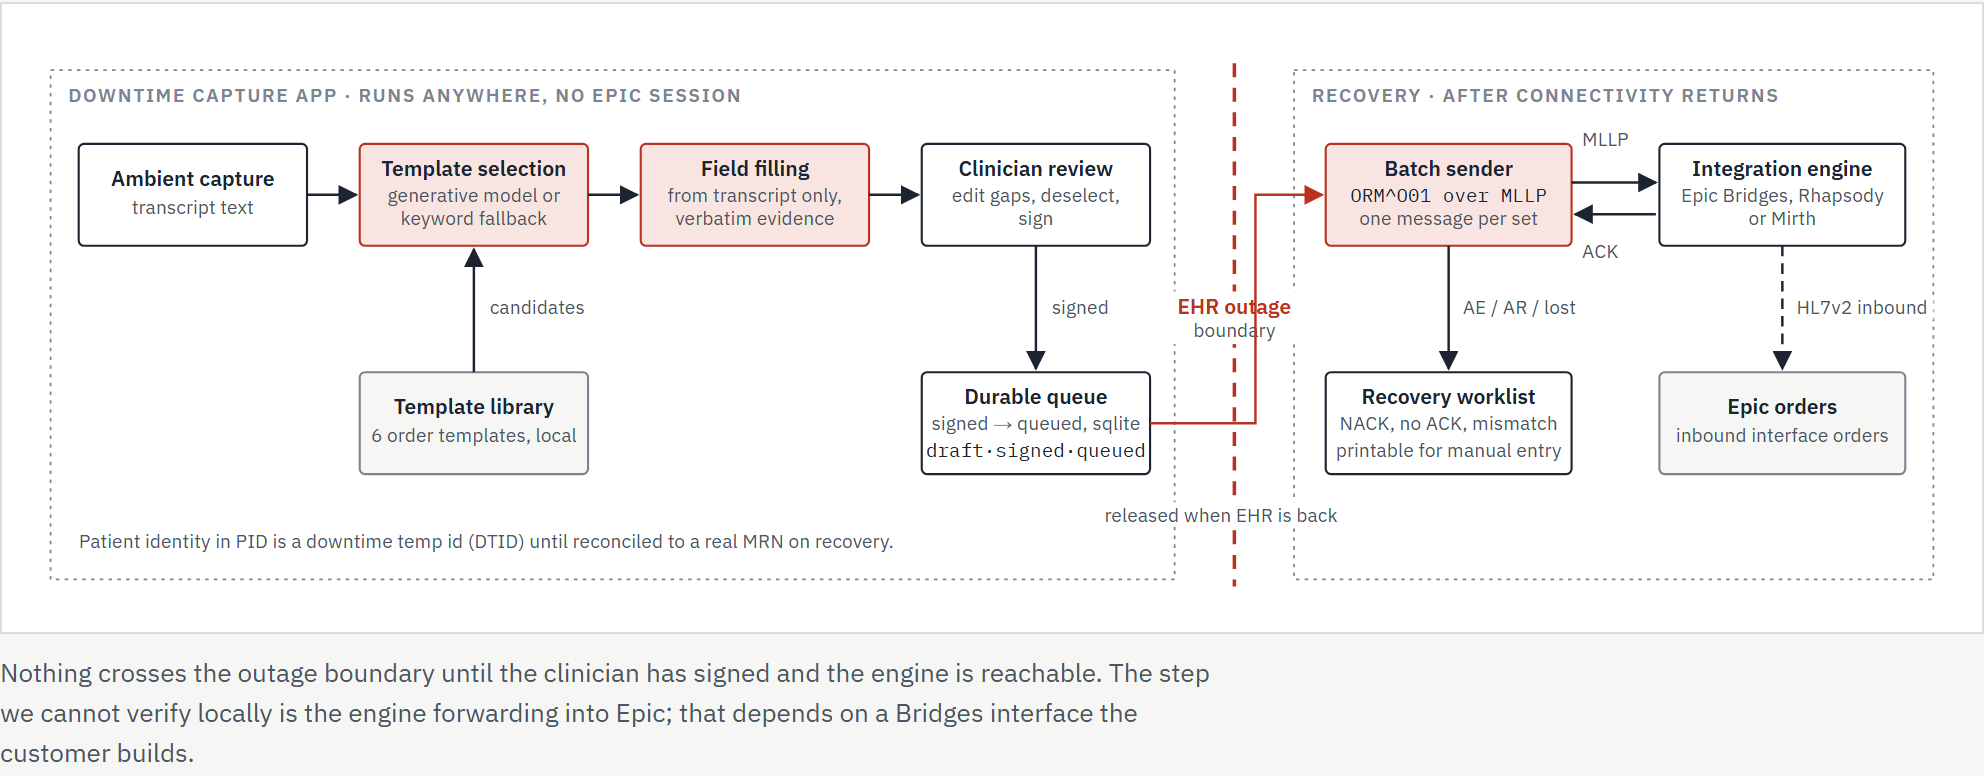
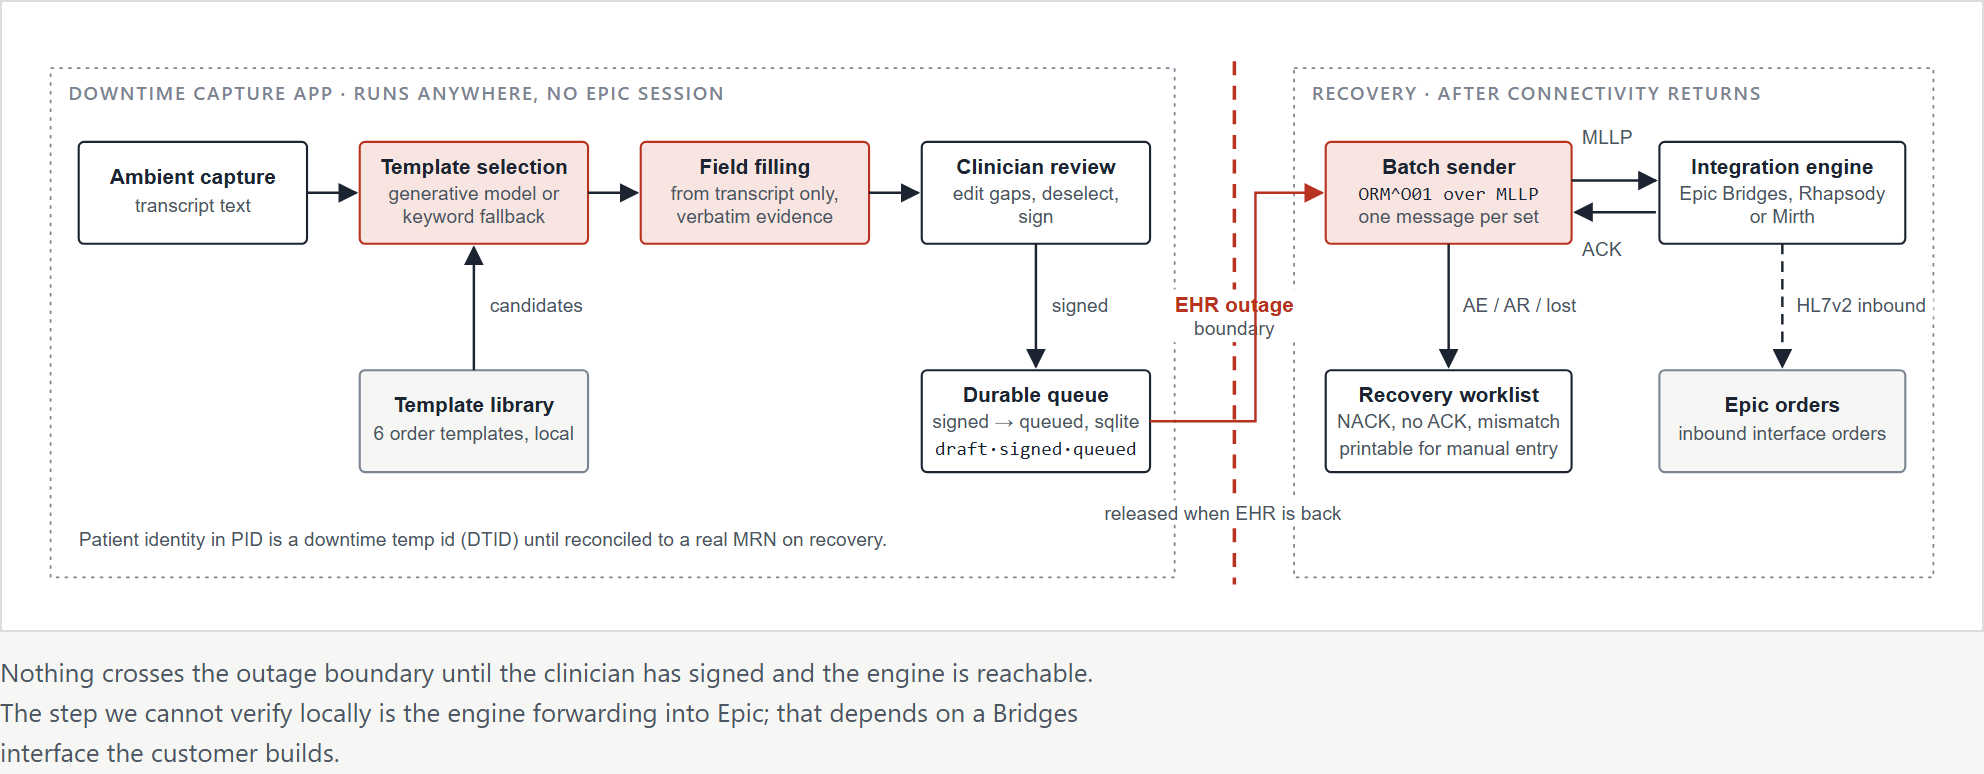
docs: relayout scenario B diagram so no edge crosses a box; fallback-safe labels
Epic column is a single vertical stack, hook lines leave at distinct
heights, the SMART launch runs along the top edge, the direct-write
path is routed around the outside, and sublabels fit with system
fonts. PNG exports re-rendered.

Claude-Session: https://claude.ai/code/session_01NjtxACCHabnkNVJv4137nH

diff --git a/docs/diagrams/epicvibe-scenarios.html b/docs/diagrams/epicvibe-scenarios.html
@@ -320,150 +320,157 @@
 
     <figure>
       <div class="diagram-wrap">
-      <svg viewBox="0 0 1100 560" role="img" aria-label="Online flow: Epic chart open fires patient-view with prefetch to the EpicVibe hook endpoints, which enqueue an async proposal job that reads extra FHIR data, grounds the proposal in the catalog and caches it. Order entry fires order-select and receives a card with create suggestions and a SMART link; accepting a suggestion makes Epic file an unsigned order. The SMART Order Assistant launches from the link, reads the full chart, shows the pre-populated template, and hands edits back to the cache so the next order-select card carries them. A direct FHIR create from the SMART app is marked as not possible.">
+      <svg viewBox="0 0 1180 590" role="img" aria-label="Online flow: Epic chart open fires patient-view with prefetch to the EpicVibe hook endpoints, which enqueue an async proposal job that reads extra FHIR data, asks the model with no identifiers, grounds the proposal in the catalog and caches it. Order entry fires order-select and receives a card with create suggestions and a SMART link; accepting a suggestion makes Epic file an unsigned order which the clinician signs. The SMART Order Assistant launches from the link, reads the full chart, shows the pre-populated template, and hands edits back to the cache so the next order-select card carries them. A direct FHIR create from the SMART app is marked as not possible.">
         <defs>
           <marker id="bh" viewBox="0 0 10 10" refX="9" refY="5" markerWidth="8" markerHeight="8" orient="auto-start-reverse"><path d="M0,0 L10,5 L0,10 z" fill="currentColor"/></marker>
           <marker id="bh-tone" viewBox="0 0 10 10" refX="9" refY="5" markerWidth="8" markerHeight="8" orient="auto-start-reverse"><path d="M0,0 L10,5 L0,10 z" fill="var(--tone)"/></marker>
         </defs>
 
         <!-- regions -->
-        <rect class="region" x="14" y="24" width="330" height="516"/>
+        <rect class="region" x="14" y="24" width="376" height="540"/>
         <text class="region-title" x="24" y="42">Epic · clinician session (mock EHR in the demo)</text>
-        <rect class="region" x="392" y="24" width="336" height="380"/>
-        <text class="region-title" x="402" y="42">EpicVibe CDS service</text>
-        <rect class="region" x="776" y="24" width="310" height="380"/>
-        <text class="region-title" x="786" y="42">SMART Order Assistant</text>
+        <rect class="region" x="420" y="24" width="356" height="540"/>
+        <text class="region-title" x="430" y="42">EpicVibe CDS service</text>
+        <rect class="region" x="816" y="24" width="354" height="540"/>
+        <text class="region-title" x="826" y="42">SMART Order Assistant</text>
 
-        <!-- Epic boxes -->
-        <rect class="box" x="30" y="70" width="140" height="52" rx="3"/>
-        <text class="t b" x="100" y="92" text-anchor="middle">Chart open</text>
-        <text class="t m" x="100" y="108" text-anchor="middle">patient-view</text>
+        <!-- Epic column: one vertical stack -->
+        <rect class="box" x="20" y="70" width="150" height="60" rx="3"/>
+        <text class="t b" x="95" y="96" text-anchor="middle">Chart open</text>
+        <text class="t m" x="95" y="113" text-anchor="middle">patient-view</text>
 
-        <rect class="box" x="30" y="190" width="140" height="52" rx="3"/>
-        <text class="t b" x="100" y="212" text-anchor="middle">Order entry</text>
-        <text class="t m" x="100" y="228" text-anchor="middle">order-select</text>
+        <rect class="box" x="20" y="170" width="150" height="60" rx="3"/>
+        <text class="t b" x="95" y="196" text-anchor="middle">Order entry</text>
+        <text class="t m" x="95" y="213" text-anchor="middle">order-select</text>
 
-        <rect class="box tone" x="196" y="190" width="132" height="52" rx="3"/>
-        <text class="t b" x="262" y="208" text-anchor="middle">Unsigned order</text>
-        <text class="t s" x="262" y="222" text-anchor="middle">filed by Epic from</text>
-        <text class="t s" x="262" y="235" text-anchor="middle">its own defaults</text>
+        <rect class="box tone" x="20" y="270" width="150" height="60" rx="3"/>
+        <text class="t b" x="95" y="292" text-anchor="middle">Unsigned order</text>
+        <text class="t s" x="95" y="307" text-anchor="middle">filed by Epic from</text>
+        <text class="t s" x="95" y="320" text-anchor="middle">its own defaults</text>
 
-        <rect class="box" x="30" y="310" width="140" height="52" rx="3"/>
-        <text class="t b" x="100" y="332" text-anchor="middle">Signing</text>
-        <text class="t m" x="100" y="348" text-anchor="middle">order-sign</text>
+        <rect class="box" x="20" y="370" width="150" height="60" rx="3"/>
+        <text class="t b" x="95" y="396" text-anchor="middle">Signing</text>
+        <text class="t m" x="95" y="413" text-anchor="middle">order-sign</text>
 
-        <rect class="box muted" x="30" y="430" width="140" height="52" rx="3"/>
-        <text class="t b" x="100" y="452" text-anchor="middle">FHIR R4 reads</text>
-        <text class="t s" x="100" y="468" text-anchor="middle">Patient · Obs · Meds · Allergies</text>
+        <rect class="box muted" x="20" y="470" width="150" height="60" rx="3"/>
+        <text class="t b" x="95" y="492" text-anchor="middle">FHIR R4 reads</text>
+        <text class="t s" x="95" y="507" text-anchor="middle">Patient, Obs, Meds,</text>
+        <text class="t s" x="95" y="520" text-anchor="middle">Allergies, Encounter</text>
 
-        <!-- service boxes -->
-        <rect class="box tone" x="408" y="70" width="140" height="52" rx="3"/>
-        <text class="t b" x="478" y="92" text-anchor="middle">Hook endpoints</text>
-        <text class="t s" x="478" y="108" text-anchor="middle">sync, fail-soft, no model</text>
+        <!-- Service column -->
+        <rect class="box tone" x="430" y="70" width="150" height="190" rx="3"/>
+        <text class="t b" x="505" y="146" text-anchor="middle">Hook endpoints</text>
+        <text class="t s" x="505" y="161" text-anchor="middle">sync, fail-soft,</text>
+        <text class="t s" x="505" y="174" text-anchor="middle">model never here</text>
+        <text class="t m" x="574" y="104" text-anchor="end">patient-view</text>
+        <text class="t m" x="574" y="198" text-anchor="end">order-select</text>
+        <text class="t m" x="574" y="240" text-anchor="end">order-sign</text>
 
-        <rect class="box" x="572" y="70" width="140" height="52" rx="3"/>
-        <text class="t b" x="642" y="92" text-anchor="middle">Proposal job</text>
-        <text class="t s" x="642" y="108" text-anchor="middle">async, off the hook path</text>
+        <rect class="box" x="630" y="70" width="150" height="60" rx="3"/>
+        <text class="t b" x="705" y="92" text-anchor="middle">Proposal job</text>
+        <text class="t s" x="705" y="107" text-anchor="middle">async, off the</text>
+        <text class="t s" x="705" y="120" text-anchor="middle">hook path</text>
 
-        <rect class="box muted" x="572" y="150" width="140" height="52" rx="3"/>
-        <text class="t b" x="642" y="172" text-anchor="middle">Model</text>
-        <text class="t s" x="642" y="188" text-anchor="middle">age, sex, codes, values only</text>
+        <rect class="box muted" x="630" y="180" width="150" height="60" rx="3"/>
+        <text class="t b" x="705" y="202" text-anchor="middle">Model</text>
+        <text class="t s" x="705" y="217" text-anchor="middle">age, sex, codes, values</text>
+        <text class="t s" x="705" y="230" text-anchor="middle">no identifiers</text>
 
-        <rect class="box" x="572" y="240" width="140" height="52" rx="3"/>
-        <text class="t b" x="642" y="262" text-anchor="middle">Catalog grounding</text>
-        <text class="t s" x="642" y="278" text-anchor="middle">drops anything not in catalog</text>
+        <rect class="box" x="630" y="290" width="150" height="60" rx="3"/>
+        <text class="t b" x="705" y="312" text-anchor="middle">Catalog grounding</text>
+        <text class="t s" x="705" y="327" text-anchor="middle">drops anything</text>
+        <text class="t s" x="705" y="340" text-anchor="middle">not in the catalog</text>
 
-        <rect class="box" x="408" y="240" width="140" height="52" rx="3"/>
-        <text class="t b" x="478" y="262" text-anchor="middle">Proposal cache</text>
-        <text class="t s" x="478" y="278" text-anchor="middle">per encounter, TTL</text>
+        <rect class="box" x="430" y="300" width="150" height="60" rx="3"/>
+        <text class="t b" x="505" y="326" text-anchor="middle">Proposal cache</text>
+        <text class="t s" x="505" y="342" text-anchor="middle">per encounter, TTL</text>
 
-        <!-- SMART boxes -->
-        <rect class="box" x="792" y="70" width="140" height="52" rx="3"/>
-        <text class="t b" x="862" y="92" text-anchor="middle">EHR launch</text>
-        <text class="t s" x="862" y="108" text-anchor="middle">OAuth, PKCE, patient context</text>
+        <!-- SMART column -->
+        <rect class="box" x="820" y="70" width="150" height="60" rx="3"/>
+        <text class="t b" x="895" y="92" text-anchor="middle">EHR launch</text>
+        <text class="t s" x="895" y="107" text-anchor="middle">OAuth with PKCE,</text>
+        <text class="t s" x="895" y="120" text-anchor="middle">patient context</text>
 
-        <rect class="box tone" x="792" y="190" width="140" height="52" rx="3"/>
-        <text class="t b" x="862" y="208" text-anchor="middle">Pre-populated</text>
-        <text class="t b" x="862" y="222" text-anchor="middle">order template</text>
-        <text class="t s" x="862" y="236" text-anchor="middle">evidence per item, editable</text>
+        <rect class="box tone" x="820" y="200" width="150" height="60" rx="3"/>
+        <text class="t b" x="895" y="218" text-anchor="middle">Pre-populated</text>
+        <text class="t b" x="895" y="232" text-anchor="middle">order template</text>
+        <text class="t s" x="895" y="248" text-anchor="middle">evidence per item, editable</text>
 
-        <rect class="box" x="792" y="310" width="140" height="52" rx="3"/>
-        <text class="t b" x="862" y="332" text-anchor="middle">Send to order entry</text>
-        <text class="t s" x="862" y="348" text-anchor="middle">hand-back, not write-back</text>
+        <rect class="box" x="820" y="330" width="150" height="60" rx="3"/>
+        <text class="t b" x="895" y="352" text-anchor="middle">Send to order entry</text>
+        <text class="t s" x="895" y="367" text-anchor="middle">hand-back,</text>
+        <text class="t s" x="895" y="380" text-anchor="middle">not write-back</text>
 
-        <!-- SMART launch along the top edge -->
-        <path class="edge" d="M100,70 L100,60 L862,60 L862,68" marker-end="url(#bh)"/>
-        <rect class="lbl-bg" x="600" y="46" width="150" height="14"/>
-        <text class="lbl" x="602" y="57">SMART link → EHR launch with context</text>
+        <!-- Epic -> hooks -->
+        <line class="edge" x1="170" y1="100" x2="428" y2="100" marker-end="url(#bh)"/>
+        <rect class="lbl-bg" x="200" y="82" width="170" height="14"/>
+        <text class="lbl" x="202" y="93">patient-view + prefetch bundles</text>
 
-        <!-- chart open -> hooks -->
-        <line class="edge" x1="170" y1="96" x2="406" y2="96" marker-end="url(#bh)"/>
-        <rect class="lbl-bg" x="200" y="100" width="160" height="14"/>
-        <text class="lbl" x="202" y="111">patient-view + prefetch bundles</text>
+        <line class="edge" x1="170" y1="194" x2="428" y2="194" marker-end="url(#bh)"/>
+        <rect class="lbl-bg" x="200" y="199" width="140" height="13"/>
+        <text class="lbl" x="202" y="209">order-select + draftOrders</text>
 
-        <!-- hooks -> job -->
-        <line class="edge" x1="548" y1="86" x2="570" y2="86" marker-end="url(#bh)"/>
-        <!-- job <-> model -->
-        <line class="edge" x1="624" y1="122" x2="624" y2="148" marker-end="url(#bh)"/>
-        <line class="edge" x1="660" y1="148" x2="660" y2="124" marker-end="url(#bh)"/>
-        <!-- model -> grounding -> cache -->
-        <line class="edge" x1="642" y1="202" x2="642" y2="238" marker-end="url(#bh)"/>
-        <line class="edge" x1="572" y1="266" x2="550" y2="266" marker-end="url(#bh)"/>
-        <!-- cache -> hooks -->
-        <line class="edge" x1="478" y1="240" x2="478" y2="124" marker-end="url(#bh)"/>
-        <rect class="lbl-bg" x="484" y="176" width="60" height="14"/>
-        <text class="lbl" x="486" y="187">read only</text>
+        <line class="edge tone" x1="430" y1="214" x2="172" y2="214" marker-end="url(#bh-tone)"/>
+        <rect class="lbl-bg" x="208" y="222" width="180" height="14"/>
+        <text class="lbl" x="210" y="233">card: create suggestions + SMART link</text>
 
-        <!-- job reads extra FHIR (believed in Epic) -->
-        <path class="edge believed" d="M712,86 L748,86 L748,456 L172,456" marker-end="url(#bh)"/>
-        <rect class="lbl-bg" x="560" y="464" width="176" height="14"/>
-        <text class="lbl" x="562" y="475">reads what prefetch did not include</text>
+        <!-- accept -> unsigned order -> signing (believed) -->
+        <line class="edge believed tone" x1="95" y1="230" x2="95" y2="268" marker-end="url(#bh-tone)"/>
+        <rect class="lbl-bg" x="105" y="238" width="150" height="26"/>
+        <text class="lbl" x="107" y="248">accept → Epic files it;</text>
+        <text class="lbl" x="107" y="261">payload details ignored</text>
+        <line class="edge believed" x1="95" y1="330" x2="95" y2="368" marker-end="url(#bh)"/>
 
-        <!-- order entry -> hooks, card back -->
-        <path class="edge" d="M170,206 L372,206 L372,104 L406,104" marker-end="url(#bh)"/>
-        <rect class="lbl-bg" x="196" y="252" width="140" height="14"/>
-        <text class="lbl" x="198" y="263">order-select + draftOrders</text>
-        <path class="edge tone" d="M406,114 L360,114 L360,230 L172,230" marker-end="url(#bh-tone)"/>
-        <rect class="lbl-bg" x="184" y="146" width="176" height="28"/>
-        <text class="lbl" x="186" y="157">card: create suggestions,</text>
-        <text class="lbl" x="186" y="170">advisory values, SMART link</text>
+        <!-- signing -> hooks, feedback -->
+        <path class="edge" d="M170,392 L400,392 L400,236 L428,236" marker-end="url(#bh)"/>
+        <rect class="lbl-bg" x="180" y="374" width="170" height="14"/>
+        <text class="lbl" x="182" y="385">order-sign → completeness card</text>
+        <path class="edge believed" d="M170,416 L412,416 L412,250 L428,250" marker-end="url(#bh)"/>
+        <rect class="lbl-bg" x="180" y="420" width="160" height="14"/>
+        <text class="lbl" x="182" y="431">feedback: accepted / overridden</text>
 
-        <!-- accept -> unsigned order (believed) -->
-        <line class="edge believed tone" x1="170" y1="220" x2="194" y2="220" marker-end="url(#bh-tone)"/>
-        <rect class="lbl-bg" x="30" y="252" width="150" height="28"/>
-        <text class="lbl" x="32" y="263">accept → Epic files it;</text>
-        <text class="lbl" x="32" y="276">payload details ignored</text>
-        <!-- unsigned order -> signing (believed) -->
-        <path class="edge believed" d="M320,242 L320,336 L172,336" marker-end="url(#bh)"/>
+        <!-- SMART launch from the card in order entry -->
+        <path class="edge" d="M170,180 L404,180 L404,50 L895,50 L895,68" marker-end="url(#bh)"/>
+        <rect class="lbl-bg" x="650" y="36" width="150" height="14"/>
+        <text class="lbl" x="652" y="47">SMART link → EHR launch</text>
 
-        <!-- signing -> hooks -->
-        <path class="edge" d="M170,350 L384,350 L384,78 L406,78" marker-end="url(#bh)"/>
-        <rect class="lbl-bg" x="184" y="354" width="170" height="14"/>
-        <text class="lbl" x="186" y="365">order-sign → completeness card</text>
-        <!-- feedback (believed) -->
-        <path class="edge believed" d="M100,362 L100,386 L470,386 L470,124" marker-end="url(#bh)"/>
-        <rect class="lbl-bg" x="184" y="390" width="150" height="14"/>
-        <text class="lbl" x="186" y="401">feedback: accepted / overridden</text>
+        <!-- inside the service -->
+        <line class="edge" x1="580" y1="100" x2="628" y2="100" marker-end="url(#bh)"/>
+        <line class="edge" x1="690" y1="130" x2="690" y2="178" marker-end="url(#bh)"/>
+        <line class="edge" x1="720" y1="180" x2="720" y2="132" marker-end="url(#bh)"/>
+        <rect class="lbl-bg" x="632" y="148" width="54" height="14"/>
+        <text class="lbl" x="684" y="159" text-anchor="end">summary</text>
+        <rect class="lbl-bg" x="724" y="148" width="54" height="14"/>
+        <text class="lbl" x="726" y="159">proposal</text>
+        <line class="edge" x1="705" y1="240" x2="705" y2="288" marker-end="url(#bh)"/>
+        <line class="edge" x1="630" y1="326" x2="582" y2="326" marker-end="url(#bh)"/>
+        <line class="edge" x1="505" y1="300" x2="505" y2="262" marker-end="url(#bh)"/>
+        <rect class="lbl-bg" x="512" y="274" width="60" height="14"/>
+        <text class="lbl" x="514" y="285">read only</text>
 
-        <!-- launch -> template -> send -->
-        <line class="edge" x1="862" y1="122" x2="862" y2="188" marker-end="url(#bh)"/>
-        <line class="edge" x1="862" y1="242" x2="862" y2="308" marker-end="url(#bh)"/>
-        <!-- template reads FHIR -->
-        <path class="edge" d="M932,216 L1000,216 L1000,500 L172,500" marker-end="url(#bh)"/>
-        <rect class="lbl-bg" x="560" y="508" width="180" height="14"/>
-        <text class="lbl" x="562" y="519">reads the whole chart with the token</text>
+        <!-- job reads what prefetch lacked (believed in Epic) -->
+        <path class="edge believed" d="M780,100 L788,100 L788,494 L172,494" marker-end="url(#bh)"/>
+        <rect class="lbl-bg" x="560" y="478" width="180" height="14"/>
+        <text class="lbl" x="562" y="489">reads what prefetch did not include</text>
 
-        <!-- hand-back -> cache -->
-        <path class="edge tone" d="M792,336 L560,336 L560,282 L550,282" marker-end="url(#bh-tone)"/>
-        <rect class="lbl-bg" x="586" y="340" width="200" height="14"/>
-        <text class="lbl" x="588" y="351">refined selections → next order-select</text>
+        <!-- SMART app internals -->
+        <line class="edge" x1="895" y1="130" x2="895" y2="198" marker-end="url(#bh)"/>
+        <line class="edge" x1="895" y1="260" x2="895" y2="328" marker-end="url(#bh)"/>
+        <path class="edge" d="M970,230 L1000,230 L1000,512 L172,512" marker-end="url(#bh)"/>
+        <rect class="lbl-bg" x="560" y="516" width="190" height="14"/>
+        <text class="lbl" x="562" y="527">reads the whole chart with the token</text>
 
-        <!-- crossed-out direct write -->
-        <path class="edge no" d="M862,362 L862,430 L350,430 L350,216 L330,216"/>
-        <line x1="594" y1="422" x2="606" y2="438" stroke="var(--red)" stroke-width="2.4"/>
-        <line x1="606" y1="422" x2="594" y2="438" stroke="var(--red)" stroke-width="2.4"/>
-        <rect class="lbl-bg" x="616" y="424" width="230" height="14"/>
-        <text class="t red" x="618" y="435" style="font-size:11px">direct FHIR order create: 403 / 405 in Epic</text>
+        <!-- hand-back to the cache -->
+        <path class="edge tone" d="M820,360 L804,360 L804,380 L505,380 L505,362" marker-end="url(#bh-tone)"/>
+        <rect class="lbl-bg" x="560" y="386" width="200" height="14"/>
+        <text class="lbl" x="562" y="397">refined selections → next order-select</text>
+
+        <!-- crossed-out direct write, routed around the outside -->
+        <path class="edge no" d="M895,390 L895,548 L8,548 L8,300 L18,300"/>
+        <line x1="494" y1="540" x2="506" y2="556" stroke="var(--red)" stroke-width="2.4"/>
+        <line x1="506" y1="540" x2="494" y2="556" stroke="var(--red)" stroke-width="2.4"/>
+        <rect class="lbl-bg" x="516" y="534" width="230" height="14"/>
+        <text class="t red" x="518" y="545" style="font-size:11px">direct FHIR order create: 403 / 405 in Epic</text>
       </svg>
       </div>
       <figcaption>The card is the only write path into Epic's order cart. The SMART app is where the complete pre-populated template lives, so it feeds the service cache instead of the chart, and the very next order-select card carries the clinician's refinements as create suggestions.</figcaption>
